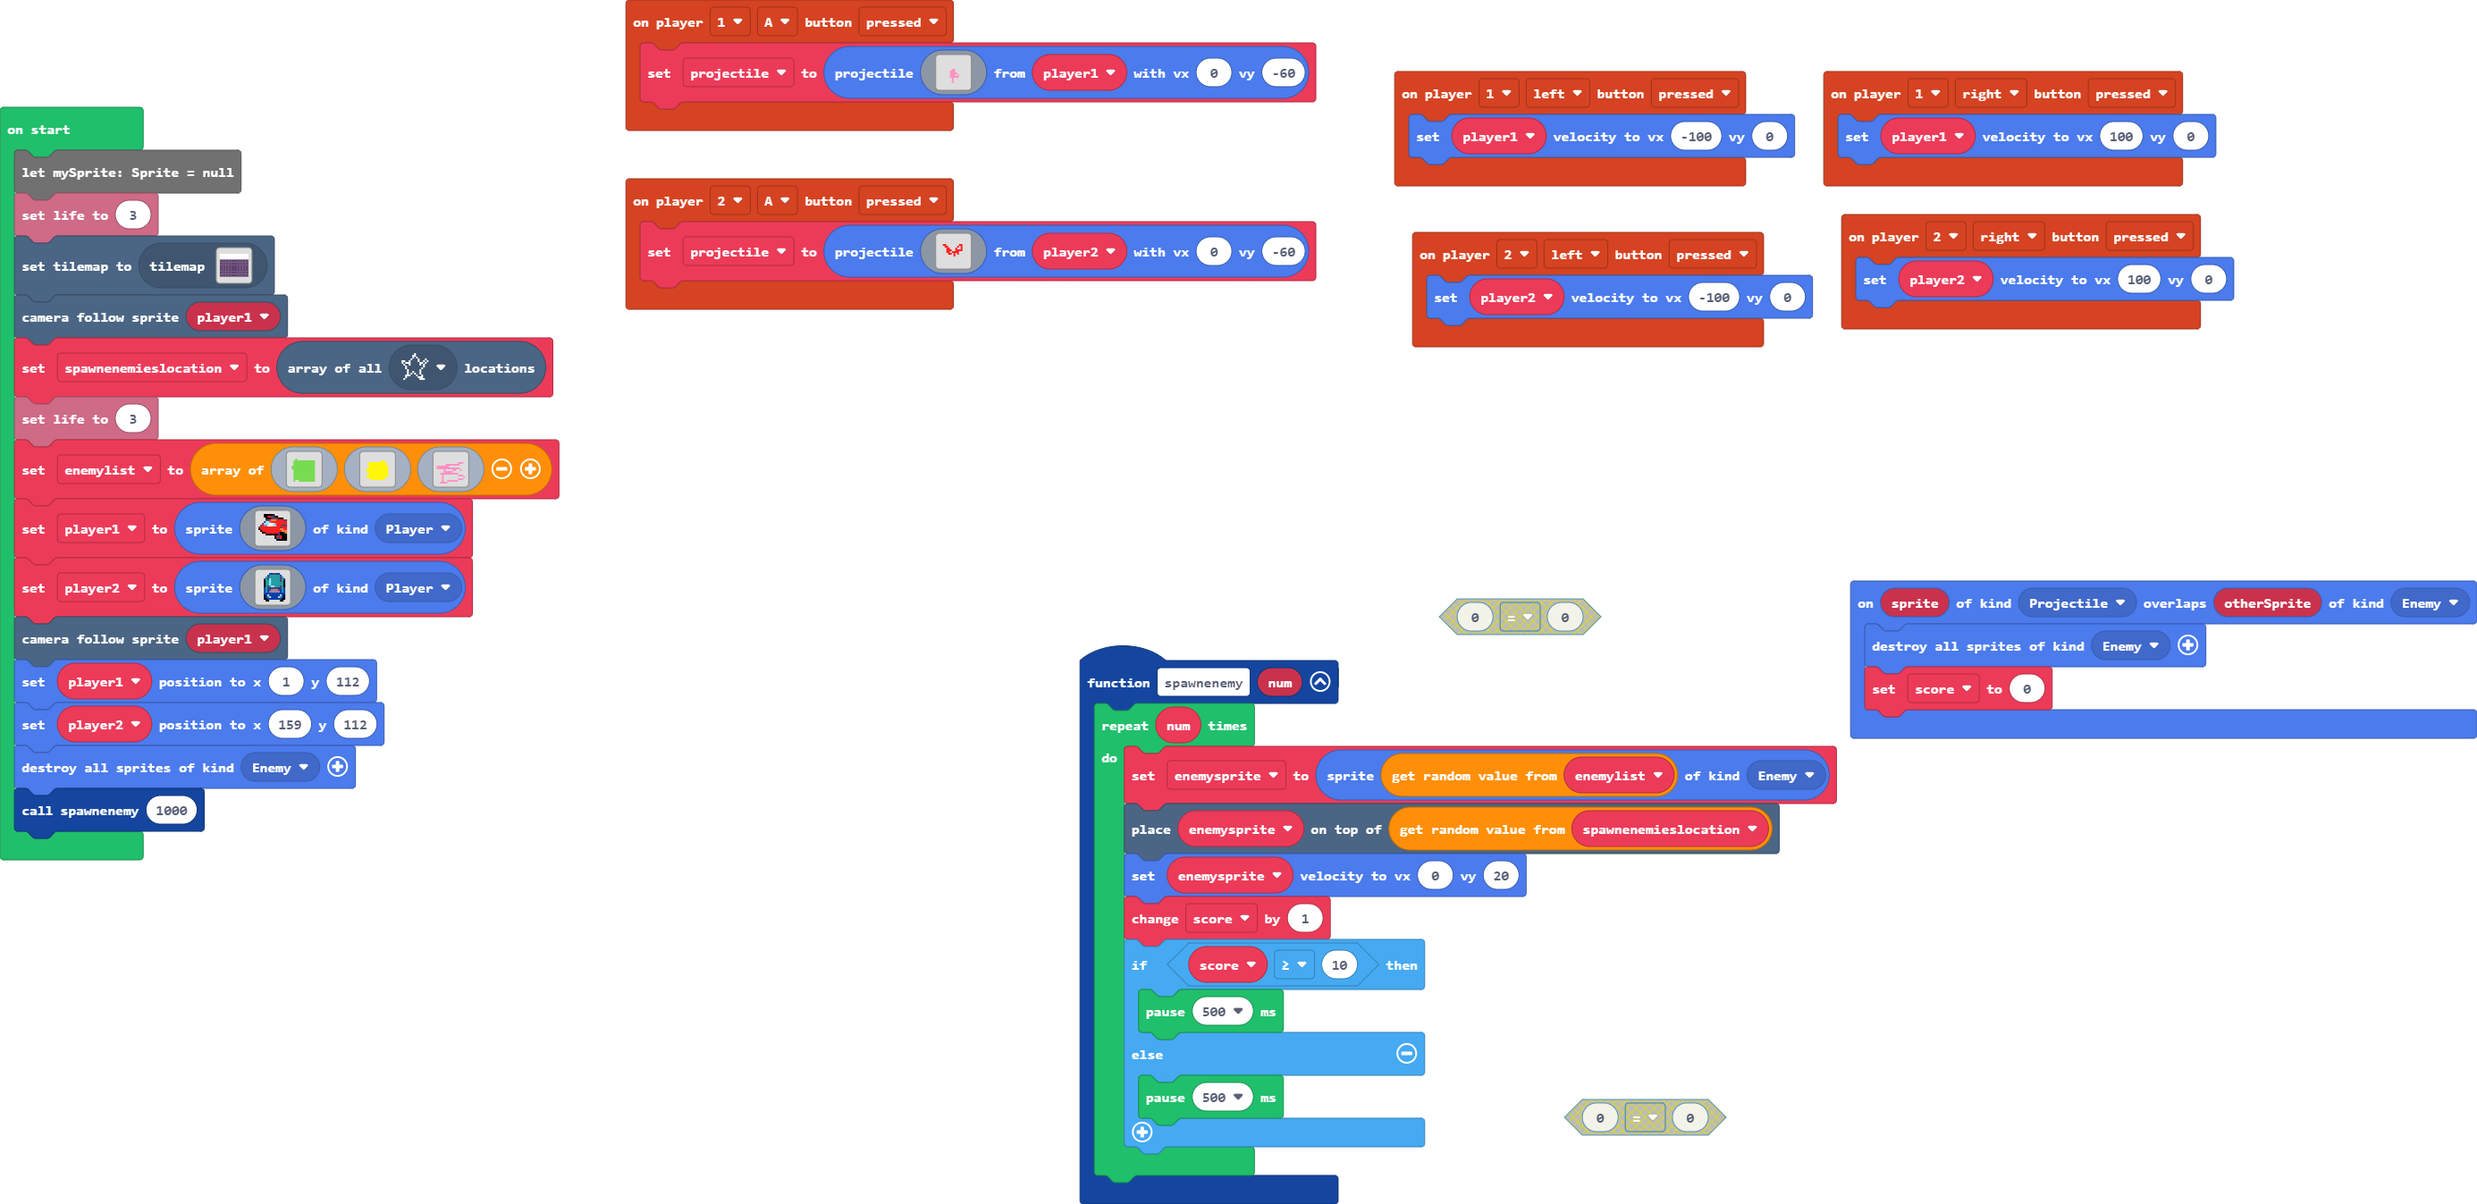
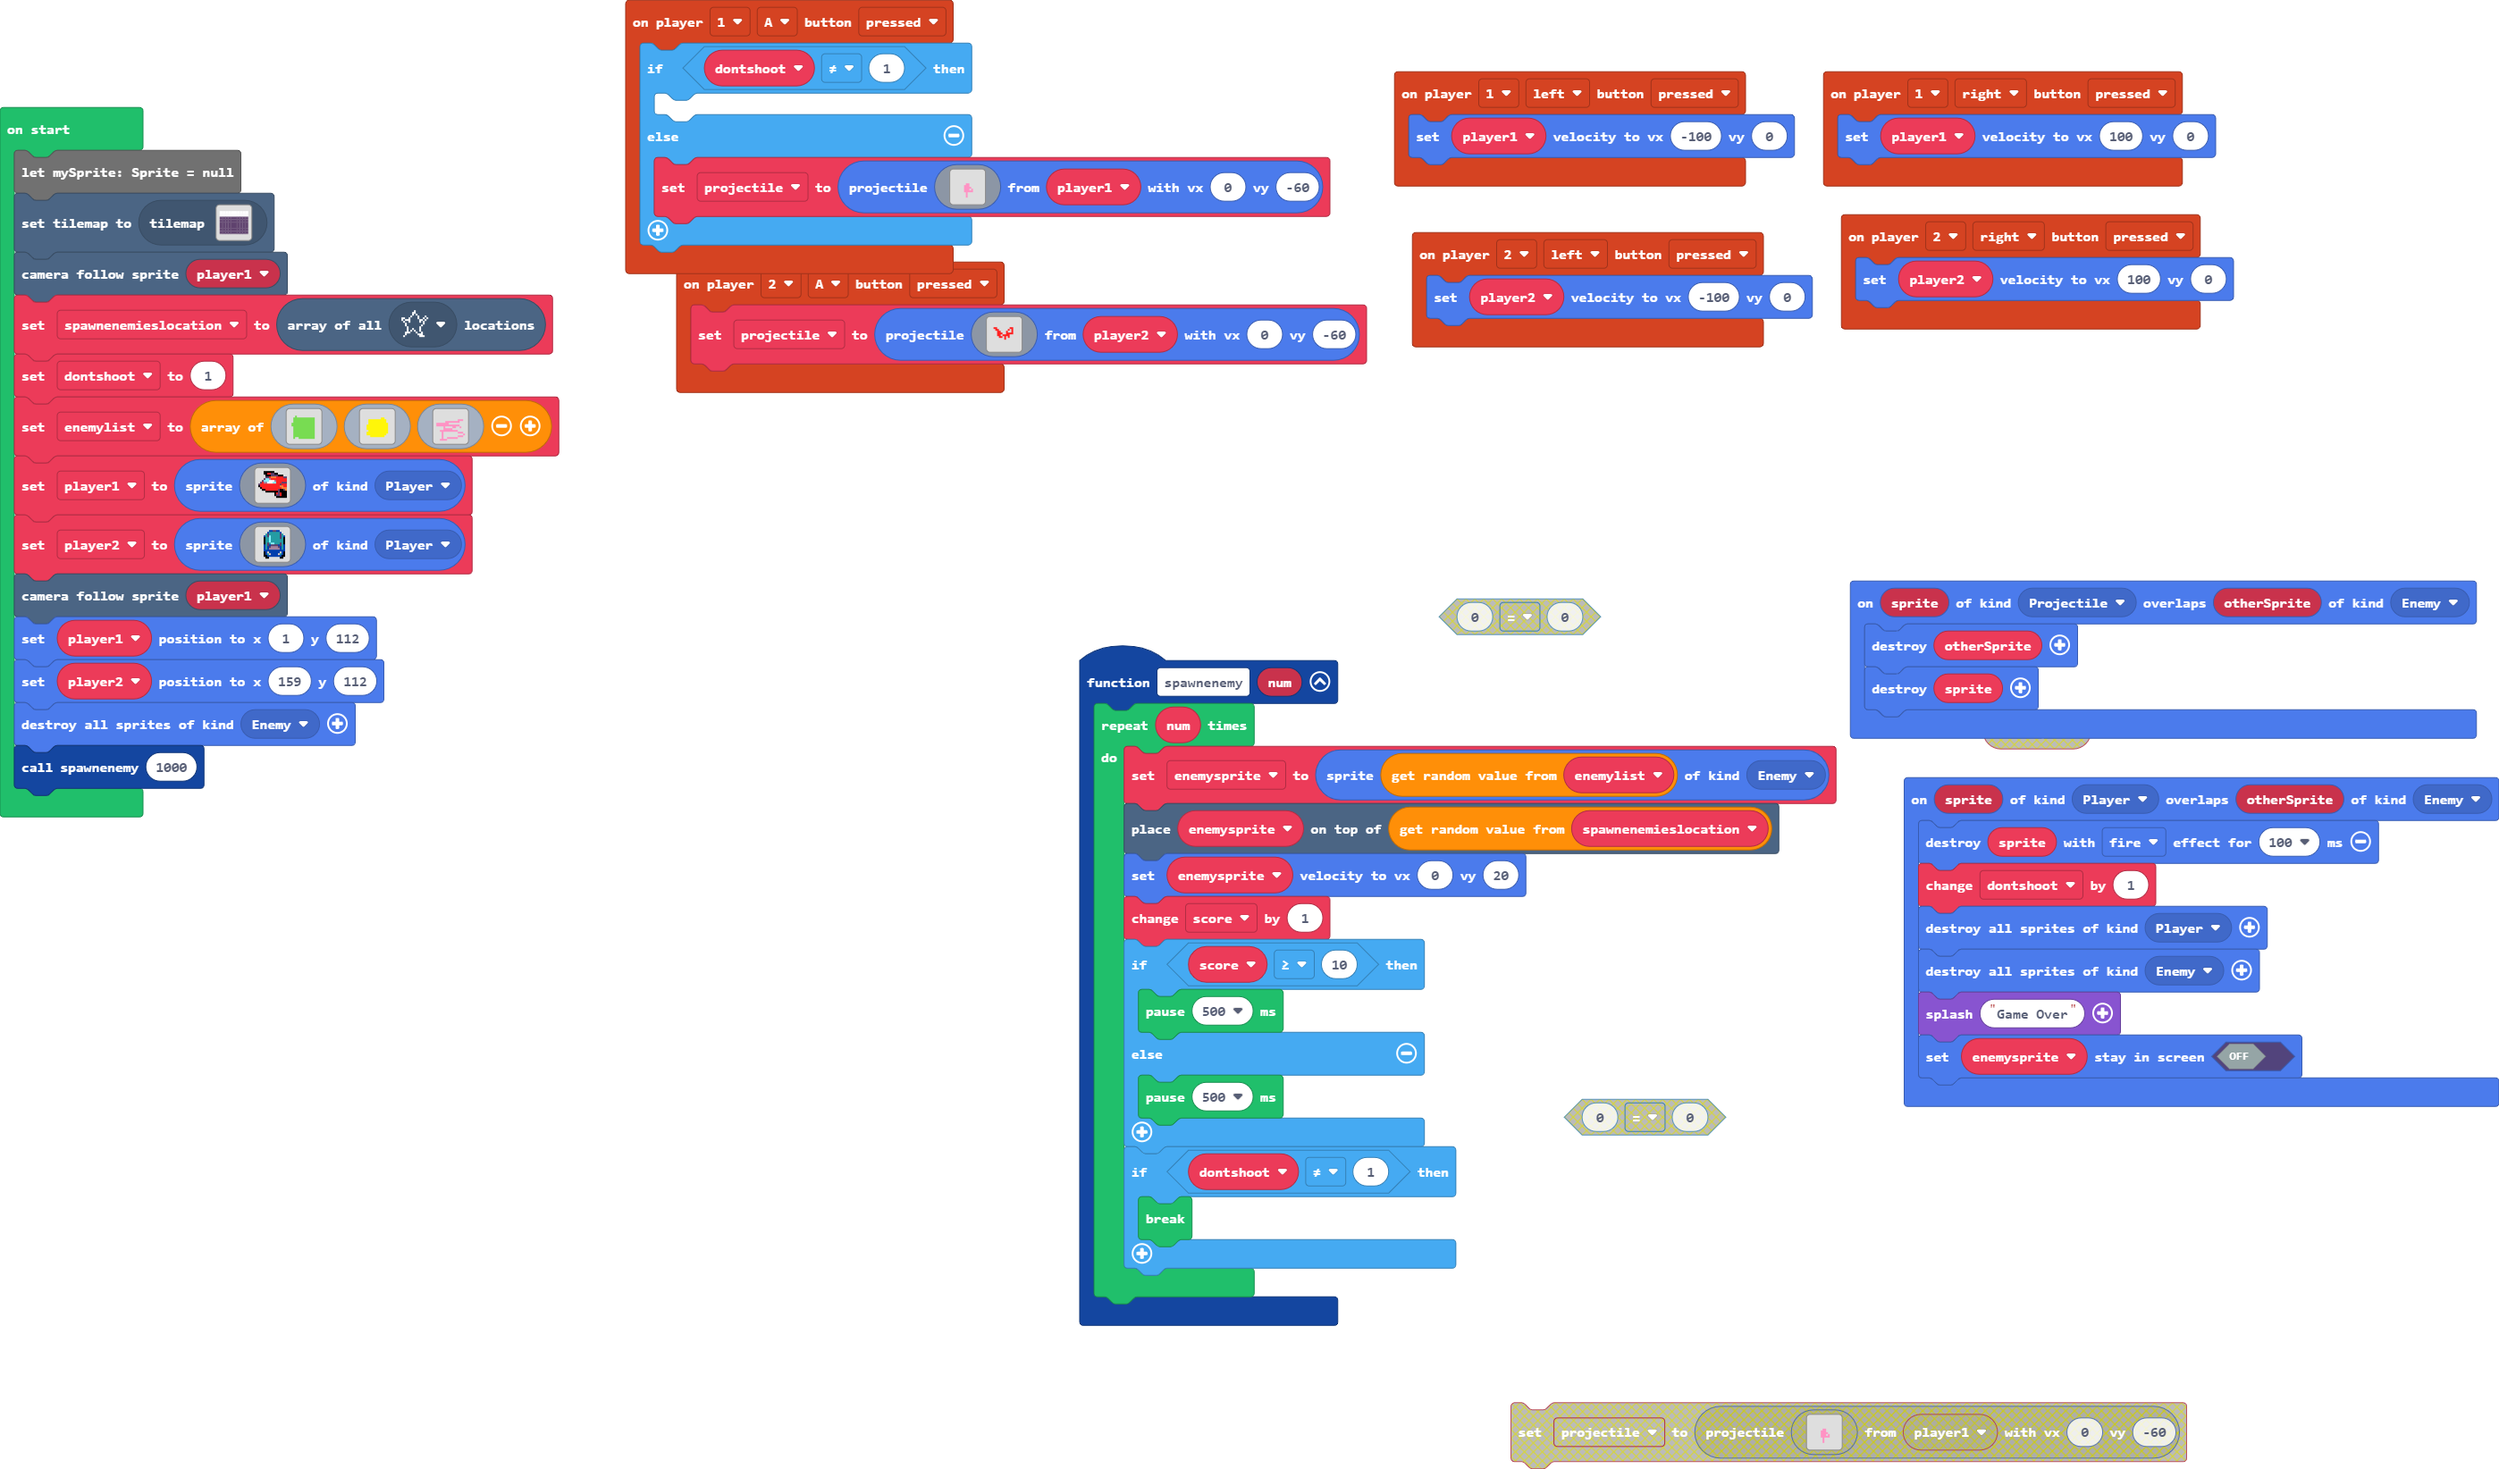
fixed some bugs

diff --git a/main.ts b/main.ts
@@ -31,24 +31,28 @@ controller.player1.onButtonEvent(ControllerButton.Right, ControllerButtonEvent.P
     player1.setVelocity(100, 0)
 })
 controller.player1.onButtonEvent(ControllerButton.A, ControllerButtonEvent.Pressed, function () {
-    projectile = sprites.createProjectileFromSprite(img`
-        . . . . . . . . . . . . . . . . 
-        . . . . . . . . . . . . . . . . 
-        . . . . . . . . . . . . . . . . 
-        . . . . . . . . . . . . . . . . 
-        . . . . . . . . . . . . . . . . 
-        . . . . . . . . . . . . . . . . 
-        . . . . . . . 3 3 . . . . . . . 
-        . . . . . . 3 3 3 . . . . . . . 
-        . . . . . . 3 3 3 3 . . . . . . 
-        . . . . . . 3 3 3 . 3 . . . . . 
-        . . . . . . 3 3 3 3 3 . . . . . 
-        . . . . . . . 3 . . . . . . . . 
-        . . . . . . . 3 . . . . . . . . 
-        . . . . . . . 3 . . . . . . . . 
-        . . . . . . . . . . . . . . . . 
-        . . . . . . . . . . . . . . . . 
-        `, player1, 0, -60)
+    if (dontshoot != 1) {
+    	
+    } else {
+        projectile = sprites.createProjectileFromSprite(img`
+            . . . . . . . . . . . . . . . . 
+            . . . . . . . . . . . . . . . . 
+            . . . . . . . . . . . . . . . . 
+            . . . . . . . . . . . . . . . . 
+            . . . . . . . . . . . . . . . . 
+            . . . . . . . . . . . . . . . . 
+            . . . . . . . 3 3 . . . . . . . 
+            . . . . . . 3 3 3 . . . . . . . 
+            . . . . . . 3 3 3 3 . . . . . . 
+            . . . . . . 3 3 3 . 3 . . . . . 
+            . . . . . . 3 3 3 3 3 . . . . . 
+            . . . . . . . 3 . . . . . . . . 
+            . . . . . . . 3 . . . . . . . . 
+            . . . . . . . 3 . . . . . . . . 
+            . . . . . . . . . . . . . . . . 
+            . . . . . . . . . . . . . . . . 
+            `, player1, 0, -60)
+    }
 })
 function spawnenemy (num: number) {
     for (let index = 0; index < num; index++) {
@@ -61,28 +65,39 @@ function spawnenemy (num: number) {
         } else {
             pause(500)
         }
+        if (dontshoot != 1) {
+            break;
+        }
     }
 }
 sprites.onOverlap(SpriteKind.Projectile, SpriteKind.Enemy, function (sprite, otherSprite) {
-    sprites.destroyAllSpritesOfKind(SpriteKind.Enemy)
-    score = 0
+    sprites.destroy(otherSprite)
+    sprites.destroy(sprite)
 })
 controller.player1.onButtonEvent(ControllerButton.Left, ControllerButtonEvent.Pressed, function () {
     player1.setVelocity(-100, 0)
+})
+sprites.onOverlap(SpriteKind.Player, SpriteKind.Enemy, function (sprite, otherSprite) {
+    sprites.destroy(sprite, effects.fire, 100)
+    dontshoot += 1
+    sprites.destroyAllSpritesOfKind(SpriteKind.Player)
+    sprites.destroyAllSpritesOfKind(SpriteKind.Enemy)
+    game.splash("Game Over")
+    enemysprite.setStayInScreen(false)
 })
 let score = 0
 let enemysprite: Sprite = null
 let projectile: Sprite = null
 let player2: Sprite = null
 let enemylist: Image[] = []
+let dontshoot = 0
 let spawnenemieslocation: tiles.Location[] = []
 let player1: Sprite = null
 let mySprite: Sprite = null
-info.setLife(3)
 tiles.setCurrentTilemap(tilemap`level2`)
 scene.cameraFollowSprite(player1)
 spawnenemieslocation = tiles.getTilesByType(assets.tile`myTile0`)
-info.setLife(3)
+dontshoot = 1
 enemylist = [img`
     . . . . . . . . . . . . . . . . 
     . . . . . . . . . . . . . . . . 

diff --git a/tilemap.g.ts b/tilemap.g.ts
@@ -115,6 +115,25 @@ namespace myTiles {
 . . . . . . . . . . . . . . . . 
 . . . . . . . . . . . . . . . . 
 `, [myTiles.transparency16], TileScale.Sixteen);
+            case "level7":
+            case "level7":return tiles.createTilemap(hex`1000100000000000000000000000000000000000000000000000000000000000000000000000000000000000000000000000000000000000000000000000000000000000000000000000000000000000000000000000000000000000000000000000000000000000000000000000000000000000000000000000000000000000000000000000000000000000000000000000000000000000000000000000000000000000000000000000000000000000000000000000000000000000000000000000000000000000000000000000000000000000000000000000000000000000000000000000000000000000000000000000000000000000000000000000000000000000`, img`
+. . . . . . . . . . . . . . . . 
+. . . . . . . . . . . . . . . . 
+. . . . . . . . . . . . . . . . 
+. . . . . . . . . . . . . . . . 
+. . . . . . . . . . . . . . . . 
+. . . . . . . . . . . . . . . . 
+. . . . . . . . . . . . . . . . 
+. . . . . . . . . . . . . . . . 
+. . . . . . . . . . . . . . . . 
+. . . . . . . . . . . . . . . . 
+. . . . . . . . . . . . . . . . 
+. . . . . . . . . . . . . . . . 
+. . . . . . . . . . . . . . . . 
+. . . . . . . . . . . . . . . . 
+. . . . . . . . . . . . . . . . 
+. . . . . . . . . . . . . . . . 
+`, [myTiles.transparency16], TileScale.Sixteen);
         }
         return null;
     })
